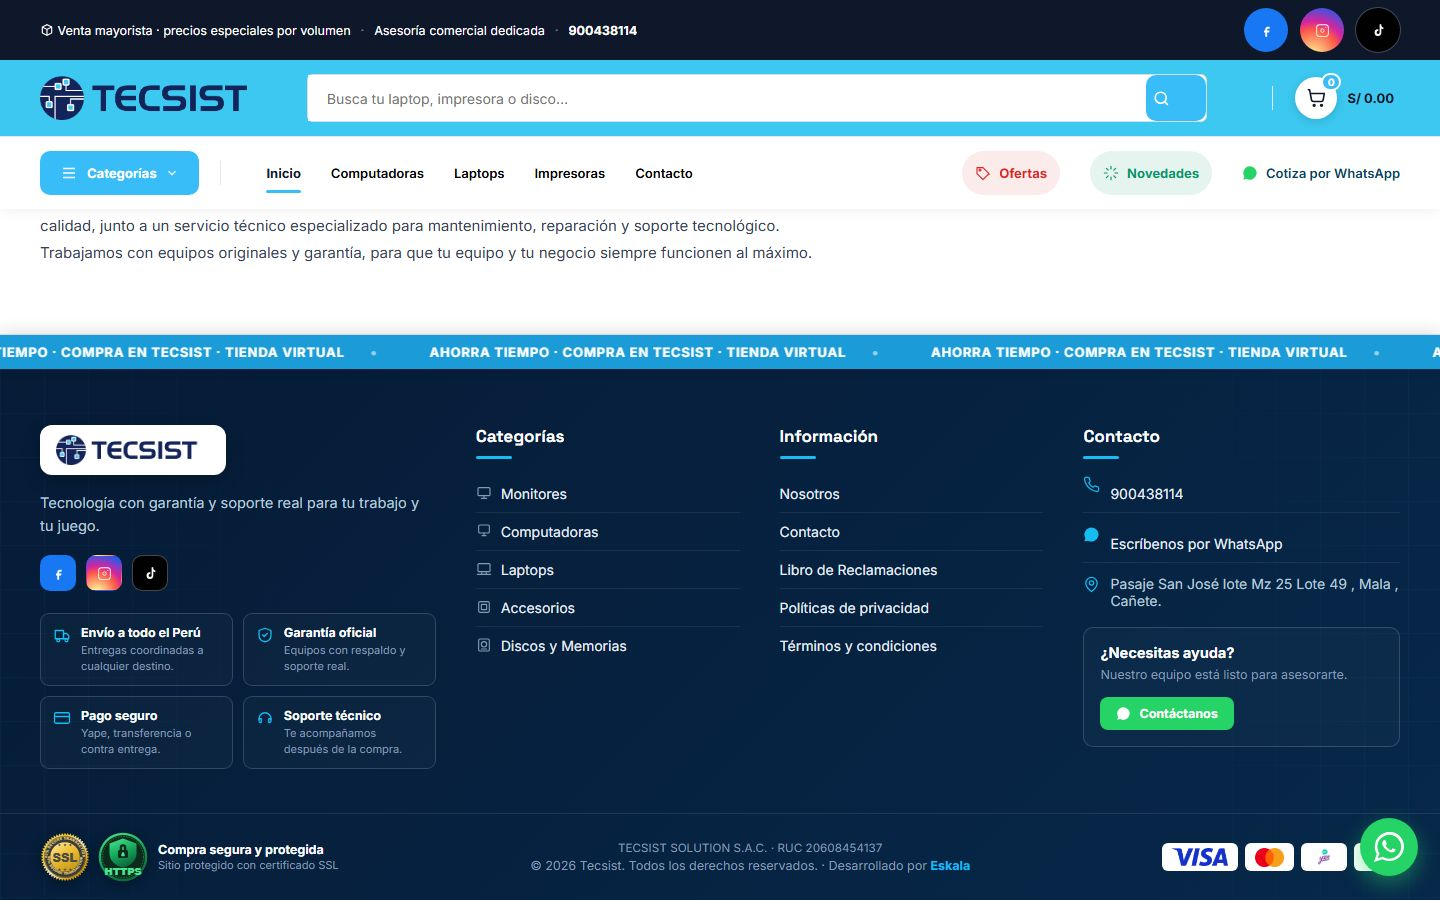
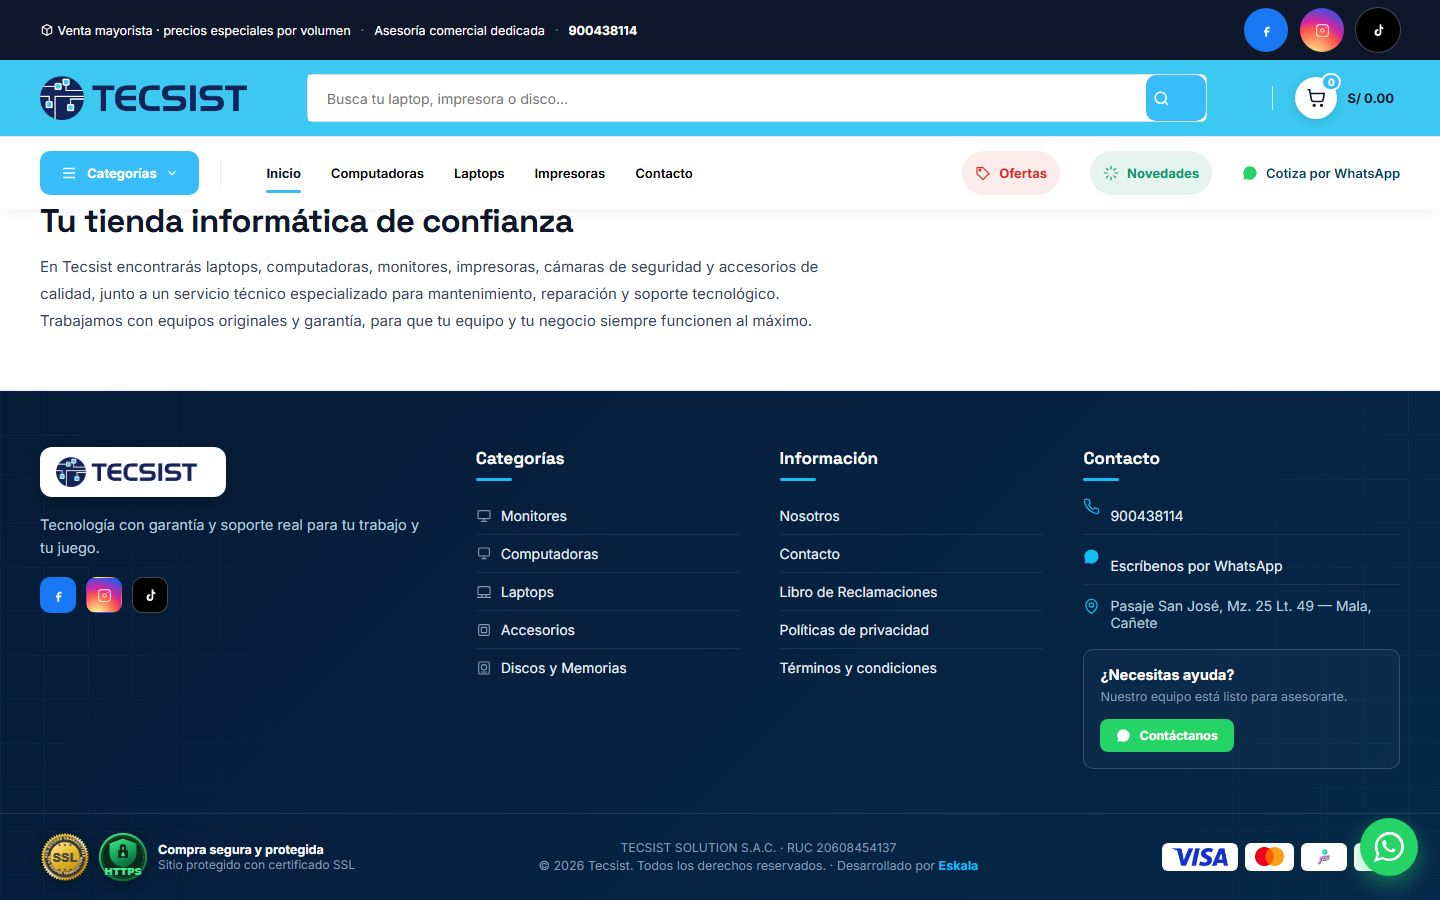
design(tiendas): sistema visual unico y rediseno de la tarjeta de producto
Tipografia
- Cinco tamanos vivos y dos pesos donde habia 15 y 4. El h1 baja de 54 a 44px.
- Baby Toncito y MegaHogar sin mayusculas en el titular (hero_title_caps).
- Nada por debajo de 12px: la etiqueta de categoria estaba a 9.

Tarjeta de producto
- Jerarquia: categoria, nombre a dos lineas fijas, precio a 20px y boton
  primario ancho con WhatsApp compacto al lado. Antes competian dos botones
  iguales y el CTA tenia el texto mas pequeno de la tarjeta (11px).
- Contraste del boton de compra: 2,1:1 a 5:1 en Baby Toncito, 3,1 a 4,7 en
  Tecsist, via buy_button_color.
- En movil el boton ocupa el ancho y WhatsApp sube a la foto: en 160px no
  caben los dos en fila sin cortar el texto.
- Producto sin foto resuelto como estado, no como texto de 9,5px.

Secciones
- Colecciones como tarjeta-imagen a sangre con el nombre sobre degradado.
- Pie de Tecsist sin los cuatro bloques que repetian los beneficios de arriba,
  sin lineas bajo cada enlace y sin iconos indistinguibles; direccion corregida.
- Marquesina retirada.
- Punteado del tema soft-kids mas fino: parecia papel cuadriculado.

diff --git a/resources/views/public/templates/computienda.blade.php b/resources/views/public/templates/computienda.blade.php
@@ -892,7 +892,9 @@
 
         @if($themeBodyClass === 'theme-soft-kids')
         /* ── Identidad INFANTIL: lunares, subrayado de crayón, formas jugosas ── */
-        .theme-soft-kids{background-image:radial-gradient(color-mix(in srgb,var(--primary) 9%,transparent) 2.2px,transparent 2.6px);background-size:26px 26px}
+        /* El punteado al 9% y cada 26px se leia como papel cuadriculado en las zonas
+           vacias. Mas fino y mas separado: textura, no rejilla. */
+        .theme-soft-kids{background-image:radial-gradient(color-mix(in srgb,var(--primary) 5%,transparent) 1.6px,transparent 1.9px);background-size:34px 34px}
         .theme-soft-kids [data-store-native-section]{background:transparent}
         .theme-soft-kids .section-heading h2,.theme-soft-kids .xs-head h2,.theme-soft-kids .home-section-copy h2{display:inline-block;background:linear-gradient(transparent 62%,color-mix(in srgb,var(--primary) 28%,transparent) 62%,color-mix(in srgb,var(--primary) 28%,transparent) 92%,transparent 92%);padding:0 6px;border-radius:6px}
         .theme-soft-kids .button,.theme-soft-kids .product-action,.theme-soft-kids .catalog-card-action{border-radius:999px!important}
@@ -2827,6 +2829,142 @@
     #storefront-main .premium-hero:has(.ph-arrow) .premium-hero-copy.is-left{padding-left:56px!important}
     @media(max-width:760px){#storefront-main .premium-hero:has(.ph-arrow) .premium-hero-copy.is-left{padding-left:0!important}
         #storefront-main .premium-hero .ph-arrow{top:auto;bottom:12px}}
+    @php
+        // Titular del hero: hay marcas que piden mayusculas (tecnica) y otras a
+        // las que las mayusculas les quitan la suavidad que declaran.
+        $heroCaps = (string) ($settings['hero_title_caps'] ?? '1') === '1';
+        // Color del boton de compra: si el primario no llega a 4,5:1 con blanco,
+        // el CTA se lee mal. Se permite un tono propio solo para el boton.
+        $btnColor = trim((string) ($settings['buy_button_color'] ?? '')) ?: null;
+    @endphp
+    /* ─── Sistema tipografico unico ───────────────────────────────────────
+       Habia 15 tamanos de letra, 4 pesos, 11 radios y 12 sombras conviviendo.
+       Aqui quedan 5 tamanos, 2 pesos y una jerarquia de radios. */
+    #storefront-main h1,#storefront-main .ph-title{font-size:var(--t-xl)!important;font-weight:800!important}
+    #storefront-main h2,#storefront-main .section-heading h2{font-size:var(--t-lg)!important;font-weight:800!important}
+    #storefront-main h3{font-size:var(--t-md)!important;font-weight:700!important}
+    #storefront-main h4,#storefront-main h5,#storefront-main h6{font-size:var(--t-sm)!important;font-weight:700!important}
+    /* Ningun texto por debajo de 12px: habia etiquetas de categoria a 9. */
+    #storefront-main .catalog-card-category,#storefront-main .buy-tag,
+    #storefront-main .catalog-card-compare,#storefront-main .buy-min,
+    footer .ft-legal,footer small{font-size:12px!important}
+    #storefront-main .catalog-card-category{color:var(--muted)!important;letter-spacing:.04em}
+    /* El boton de compra era el texto mas pequeno de la tarjeta (11px). */
+    #storefront-main .catalog-card-action,#storefront-main .catalog-card-inquiry,
+    #storefront-main .buy-add{font-size:13px!important;min-height:44px!important;
+        border-radius:var(--r-btn)!important;font-weight:700!important}
+    /* Comprar manda; consultar acompana. Antes pesaban lo mismo. */
+    #storefront-main .catalog-card-action{flex:1.6 1 auto}
+    #storefront-main .catalog-card-inquiry{flex:1 1 auto;background:transparent!important;
+        border:1.5px solid var(--border)!important;color:var(--text-strong)!important}
+    /* Un solo lenguaje de boton: nada de pildoras junto a radios de 8. */
+    #storefront-main .button,#storefront-main button.button,#storefront-main a.button,
+    #storefront-main .promo-cta,#storefront-main .home-see-all{border-radius:var(--r-btn)!important;font-size:14px!important;font-weight:700!important}
+    #storefront-main .button{min-height:44px!important}
+    /* Espaciado de seccion unico: habia tiendas a 68 y otras a 46. */
+    #storefront-main > section:not(.premium-hero):not(.trust-section){padding-block:56px!important}
+    /* Peso 900 fuera: junto al 800 no se distingue y endurece la marca. */
+    #storefront-main [style*="font-weight:900"],#storefront-main .fw-900{font-weight:800!important}
+    @unless($heroCaps)
+    #storefront-main h1,#storefront-main .ph-title{text-transform:none!important;font-weight:700!important;letter-spacing:-.01em}
+    @endunless
+    @if($btnColor)
+    #storefront-main .catalog-card-action,#storefront-main .buy-add,
+    #storefront-main .button-primary,#storefront-main .button.button-primary{background:{{ $btnColor }}!important}
+    @endif
+    /* ─── Colecciones como tarjeta-imagen ─────────────────────────────────
+       En moda la foto vende: la coleccion se presenta con la imagen a sangre y
+       el nombre encima, no como una fila con la foto de miniatura. */
+    #storefront-main .home-cats.style-horizontal.cover-cards .home-cats-grid{max-width:1000px}
+    #storefront-main .home-cats.style-horizontal.cover-cards .home-cat-card{display:block!important;
+        min-height:0!important;aspect-ratio:16/10;border:0!important;box-shadow:var(--sh-2)!important}
+    #storefront-main .home-cats.style-horizontal.cover-cards .home-cat-media{position:absolute!important;
+        inset:0;width:100%!important;height:100%!important;flex:none!important}
+    #storefront-main .home-cats.style-horizontal.cover-cards .home-cat-media img{padding:0!important;
+        object-fit:cover!important;transition:transform .45s ease}
+    #storefront-main .home-cats.style-horizontal.cover-cards .home-cat-card:hover .home-cat-media img{transform:scale(1.05)}
+    #storefront-main .home-cats.style-horizontal.cover-cards .home-cat-card::before{content:'';position:absolute;
+        inset:0;z-index:1;background:linear-gradient(180deg,rgba(15,23,42,0) 38%,rgba(15,23,42,.72) 100%)}
+    #storefront-main .home-cats.style-horizontal.cover-cards .home-cat-content{position:absolute!important;
+        z-index:2;left:0;right:0;bottom:0;padding:24px 26px!important}
+    #storefront-main .home-cats.style-horizontal.cover-cards .home-cat-card strong{color:#fff!important;font-size:var(--t-lg)!important}
+    #storefront-main .home-cats.style-horizontal.cover-cards .home-cat-card small{color:rgba(255,255,255,.86)!important}
+    #storefront-main .home-cats.style-horizontal.cover-cards .home-cat-card::after{display:none}
+    /* ─── Colecciones en horizontal (2 o 3 mundos) ────────────────────────
+       Con pocas colecciones, la tarjeta ancha quedaba casi vacia: foto pequena
+       a la izquierda y un titulo perdido en medio. Ahora la foto ocupa el
+       tercio izquierdo a sangre y el nombre pesa lo que tiene que pesar. */
+    /* Con 2 o 3 colecciones la rejilla a 1360px dejaba un vacio enorme entre
+       el nombre y la flecha. Se acota el ancho y la tarjeta se llena. */
+    #storefront-main .home-cats.style-horizontal .home-cats-grid{max-width:900px;margin-inline:auto}
+    #storefront-main .home-cats.style-horizontal .home-cat-card{padding:0!important;gap:0!important;
+        min-height:150px;overflow:hidden;position:relative}
+    #storefront-main .home-cats.style-horizontal .home-cat-media{flex:0 0 38%!important;width:auto!important;
+        height:auto!important;align-self:stretch;border-radius:0!important;
+        background:color-mix(in srgb,var(--primary) 8%,var(--surface-soft))!important}
+    #storefront-main .home-cats.style-horizontal .home-cat-media img{padding:14px!important;object-fit:contain!important;
+        width:100%!important;height:100%!important;border:0!important;border-radius:0!important;box-shadow:none!important;background:transparent!important}
+    #storefront-main .home-cats.style-horizontal .home-cat-media > *{border:0!important;box-shadow:none!important;background:transparent!important}
+    #storefront-main .home-cats.style-horizontal .home-cat-content{padding:22px 24px!important}
+    #storefront-main .home-cats.style-horizontal .home-cat-card strong{font-size:var(--t-md)!important;
+        font-weight:800!important;color:var(--secondary)!important;text-transform:none!important;letter-spacing:0!important}
+    #storefront-main .home-cats.style-horizontal .home-cat-card small,
+    #storefront-main .home-cats.style-horizontal .home-cat-count{display:block;margin-top:4px;color:var(--muted);font-size:13px}
+    #storefront-main .home-cats.style-horizontal .home-cat-card::after{content:'';position:absolute;
+        left:0;right:0;bottom:0;height:4px;background:var(--primary);opacity:0;transition:opacity .2s ease}
+    #storefront-main .home-cats.style-horizontal .home-cat-card:hover::after{opacity:1}
+    /* En movil la botonera se partia en dos filas y el texto del boton se
+       rompia en dos lineas. Se mantiene en una fila y el texto no se parte. */
+    @media(max-width:760px){
+        /* En una tarjeta de ~160px no caben boton y icono en la misma fila sin
+           cortar el texto. El boton ocupa el ancho y WhatsApp sube a la foto. */
+        #storefront-main .catalog-card{position:relative}
+        #storefront-main .catalog-card-actions{flex-direction:row!important;flex-wrap:nowrap!important;gap:0;padding:0 10px 12px!important}
+        #storefront-main .catalog-card-action{flex:1 1 100%!important;width:100%!important;
+            padding:0 8px!important;font-size:12.5px!important;white-space:nowrap}
+        #storefront-main .catalog-card-inquiry{position:absolute!important;top:8px;right:8px;z-index:3;
+            flex:0 0 38px!important;width:38px!important;min-width:38px!important;height:38px!important;min-height:38px!important;
+            padding:0!important;border-radius:50%!important;background:#fff!important;
+            border:1px solid var(--border)!important;box-shadow:var(--sh-1)!important}
+        #storefront-main .catalog-card-body{padding:12px 10px 8px!important}
+        #storefront-main .catalog-card-price{font-size:17px!important}
+        #storefront-main .catalog-card-name{font-size:13.5px!important}
+    }
+    /* Producto sin foto: el aviso iba a 9,5px y el icono flotaba suelto. Se
+       resuelve como estado, con el icono contenido y el texto legible. */
+    #storefront-main .catalog-card-media:has(.catalog-card-placeholder){background:var(--surface-soft)!important}
+    #storefront-main .catalog-card-placeholder{width:46px!important;height:46px!important;
+        color:color-mix(in srgb,var(--primary) 34%,var(--muted))!important;opacity:.8}
+    #storefront-main .ph-note{display:block;margin-top:10px;color:var(--muted)!important;
+        font-size:12px!important;font-weight:600;letter-spacing:.02em}
+    #storefront-main .catalog-card-media-link:has(.catalog-card-placeholder){display:grid;place-content:center;gap:0}
+    /* ─── Tarjeta de producto ─────────────────────────────────────────────
+       El precio era del mismo peso visual que el nombre y los dos botones
+       competian. Ahora: foto con aire, nombre a dos lineas fijas, precio
+       protagonista y un boton primario ancho con un secundario compacto. */
+    #storefront-main .catalog-card{border:1px solid var(--border)!important;background:var(--surface)!important;
+        overflow:hidden;transition:transform .2s ease,box-shadow .2s ease,border-color .2s ease}
+    #storefront-main .catalog-card:hover{border-color:color-mix(in srgb,var(--primary) 45%,var(--border))!important}
+    #storefront-main .catalog-card-media{border-bottom:1px solid color-mix(in srgb,var(--border) 60%,transparent)}
+    #storefront-main .catalog-card-media img{transition:transform .35s ease}
+    #storefront-main .catalog-card:hover .catalog-card-media img{transform:scale(1.04)}
+    #storefront-main .catalog-card-body{padding:14px 14px 10px!important;gap:2px}
+    #storefront-main .catalog-card-category{display:block;margin-bottom:4px;text-transform:uppercase;font-weight:700}
+    #storefront-main .catalog-card-name{display:-webkit-box;-webkit-line-clamp:2;-webkit-box-orient:vertical;
+        overflow:hidden;min-height:2.8em;font-size:14.5px!important;font-weight:600!important;line-height:1.4!important;color:var(--text-strong)!important}
+    #storefront-main .catalog-card-name:hover{color:var(--primary)!important}
+    #storefront-main .catalog-card-prices{align-items:baseline;gap:8px;margin-top:8px}
+    #storefront-main .catalog-card-price{font-size:20px!important;font-weight:800!important;color:var(--secondary)!important;line-height:1.1}
+    #storefront-main .catalog-card-compare{color:var(--muted)!important;text-decoration:line-through}
+    #storefront-main .catalog-card-actions{display:flex!important;gap:8px;padding:0 14px 14px!important;width:100%;box-sizing:border-box}
+    #storefront-main .catalog-card-inquiry{flex:0 0 44px!important;padding:0!important;justify-content:center}
+    #storefront-main .catalog-card-inquiry span,#storefront-main .catalog-card-inquiry{font-size:0!important}
+    #storefront-main .catalog-card-inquiry svg{width:19px;height:19px;color:#25d366}
+    #storefront-main .catalog-card-action{flex:1 1 auto!important;width:auto!important;min-width:0}
+    /* La foto sin producto no puede ser un texto de 9px: se resuelve como estado. */
+    #storefront-main .catalog-card-media .image-empty,
+    #storefront-main .catalog-card-media > span:only-child{display:grid;place-content:center;gap:6px;
+        width:100%;height:100%;color:var(--muted);font-size:12px!important;background:var(--surface-soft)}
     /* El navegador pinta los textarea en monospace: rompe la tipografia de la tienda. */
     textarea,input,select,button{font-family:inherit}
     /* Mayorista plegable: la cabecera es el disparador y el detalle se despliega. */
@@ -3285,7 +3423,7 @@
         @endphp
 
         @if($featuredCategoryItems->isNotEmpty())
-        <section class="home-cats style-{{ $featuredCatsStyle }} shape-{{ $featuredCatsShape }} {{ $featuredCatsMobileCarousel ? 'mobile-carousel' : '' }}" data-store-native-section="categories" style="order:{{ $sectionOrder('categories') }};--cats-cols:{{ max(1, min($featuredCatsColumns, $featuredCategoryItems->count())) }}">
+        <section class="home-cats style-{{ $featuredCatsStyle }} shape-{{ $featuredCatsShape }} {{ ($settings['featured_categories_cover'] ?? '0') === '1' ? 'cover-cards' : '' }} {{ $featuredCatsMobileCarousel ? 'mobile-carousel' : '' }}" data-store-native-section="categories" style="order:{{ $sectionOrder('categories') }};--cats-cols:{{ max(1, min($featuredCatsColumns, $featuredCategoryItems->count())) }}">
             <div class="container">
                 @include('public.templates.partials.computienda-intro', ['introKey' => 'categories'])
                 @if($featuredCatsStyle === 'showcase' && !$introActive('categories'))

diff --git a/resources/views/storefront/partials/footers/technology.blade.php b/resources/views/storefront/partials/footers/technology.blade.php
@@ -122,13 +122,14 @@
     .ftt-ben small{display:block;margin-top:2px;color:var(--ftt-muted);font-size:11px;line-height:1.4}
     /* Listas con separador e icono */
     .ftt ul{list-style:none;margin:0;padding:0}
-    .ftt ul li{border-bottom:1px solid rgba(255,255,255,.08)}
-    .ftt ul li:last-child{border-bottom:0}
-    .ftt ul a{display:flex;align-items:center;gap:9px;padding:10px 0;color:#E5EDF6;font-size:14px;text-decoration:none;transition:color .18s ease}
+    /* Sin lineas bajo cada enlace: creaban una tabla que nadie pidio y solo
+       aparecian en dos de las cuatro columnas. */
+    .ftt ul li{border-bottom:0}
+    .ftt ul a{display:flex;align-items:center;gap:9px;padding:7px 0;color:#E5EDF6;font-size:14px;text-decoration:none;transition:color .18s ease}
     .ftt ul a .ftt-ar{margin-left:auto;opacity:0;transform:translateX(-4px);transition:.18s ease;color:var(--ftt-ac)}
     .ftt ul a:hover{color:var(--ftt-ac)}
     .ftt ul a:hover .ftt-ar{opacity:1;transform:translateX(0)}
-    .ftt ul a>span:first-child{color:var(--ftt-muted);display:inline-flex}
+    .ftt ul a>span:first-child{display:none}
     .ftt ul a:hover>span:first-child{color:var(--ftt-ac)}
     /* Contacto */
     .ftt-contact{display:flex;flex-direction:column;gap:12px;color:var(--ftt-txt2);font-size:14px}
